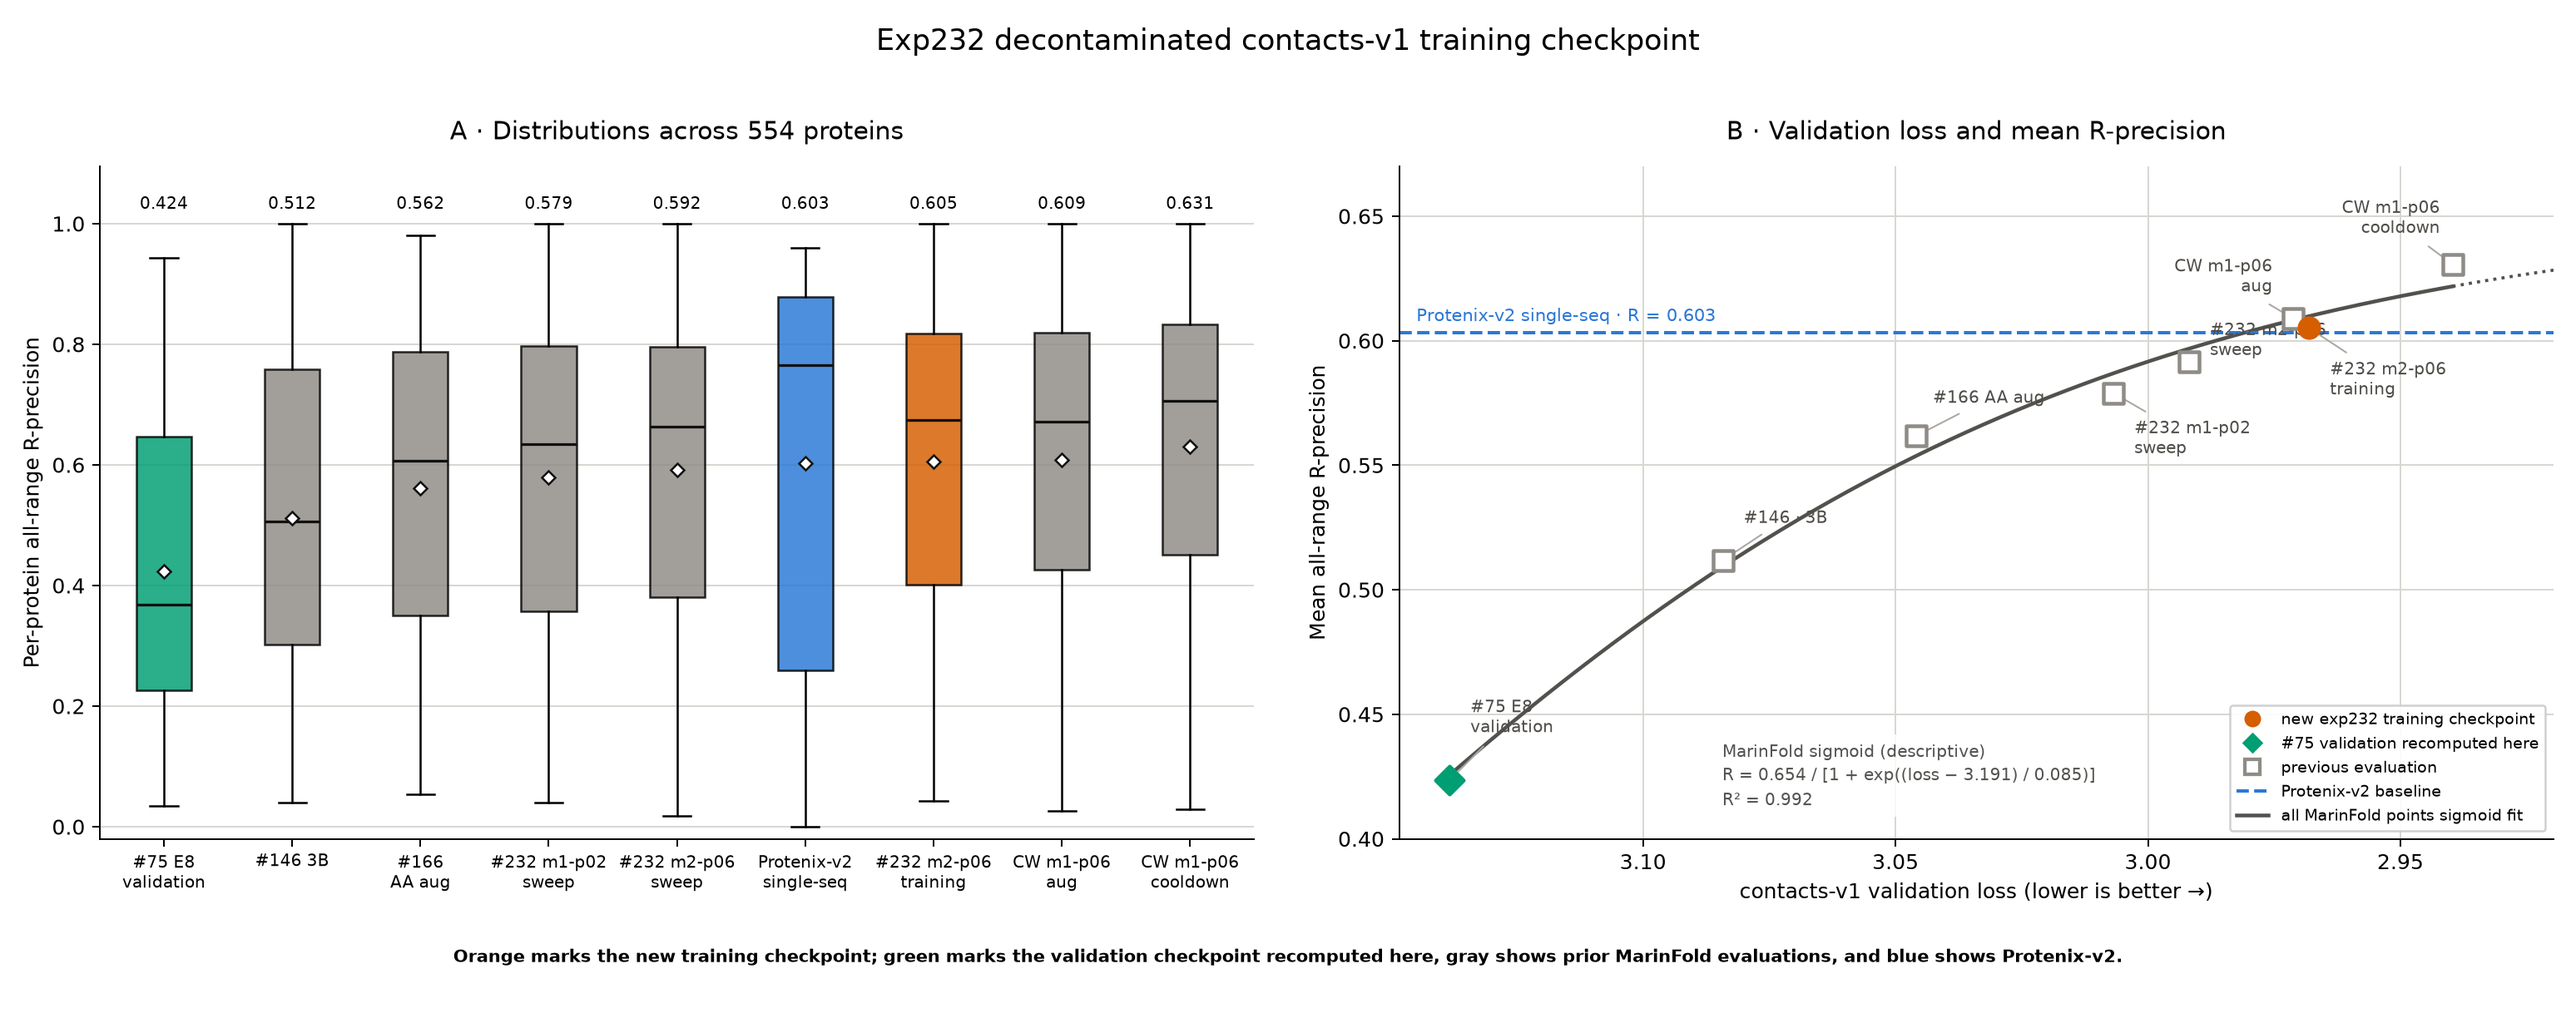
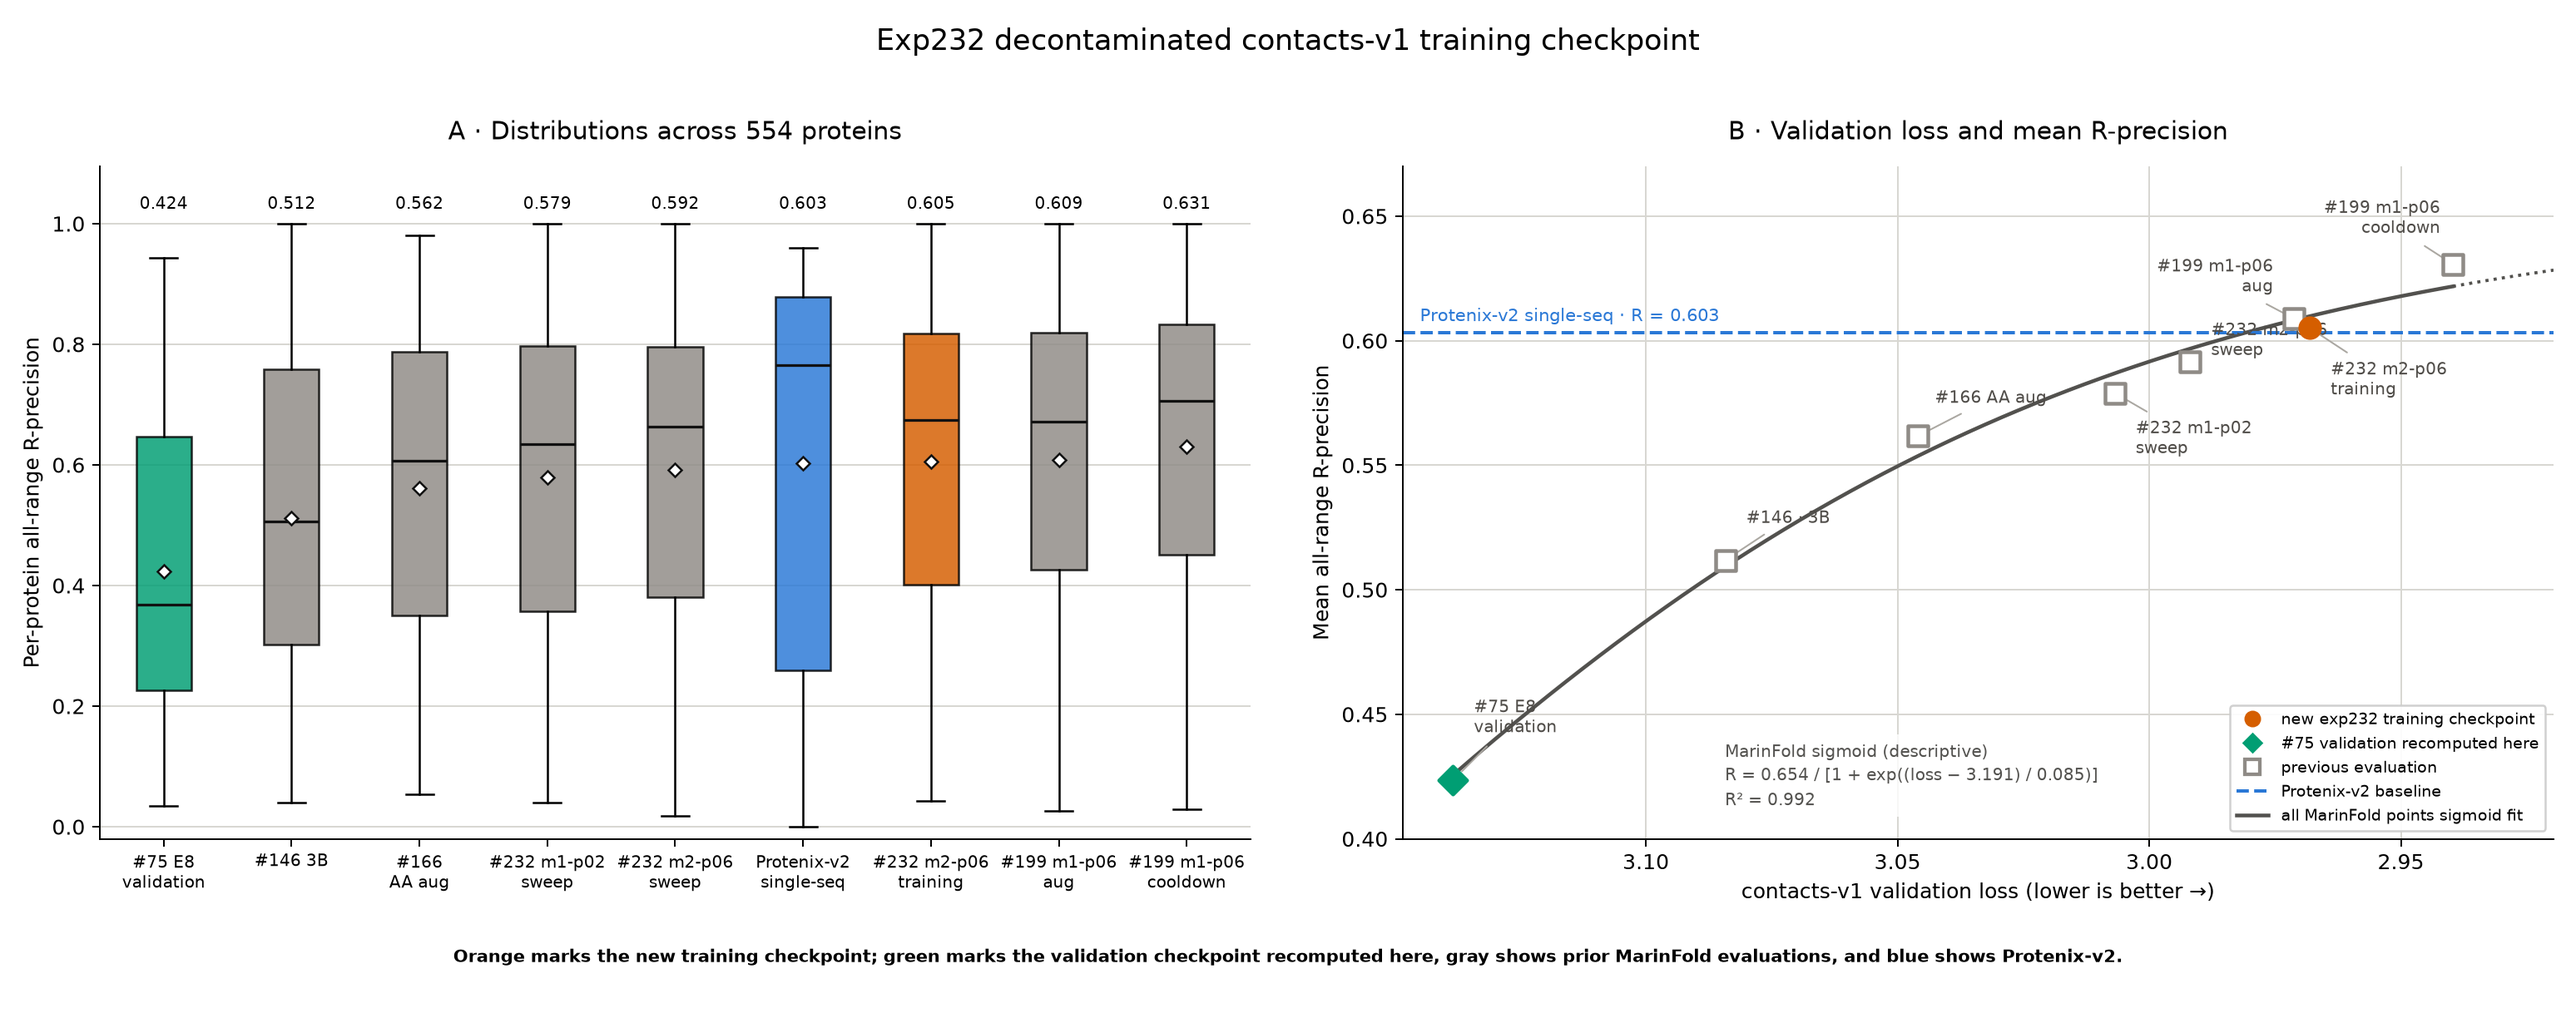
exp232: clarify comparison identities

diff --git a/experiments/exp232_sweep_cv1_decontam/evals/2026-08-24_rollout_v2/build_comparison_data.py b/experiments/exp232_sweep_cv1_decontam/evals/2026-08-24_rollout_v2/build_comparison_data.py
@@ -25,8 +25,8 @@ REFERENCE_KEYS = (
 REFERENCE_ROWS_KEYS = (*REFERENCE_KEYS, "protenix")
 DISPLAY_NAME_OVERRIDES = {
     "exp146": "#146 3B",
-    "cw-p06-aug": "CW m1-p06 aug",
-    "cw-p06-cool": "CW m1-p06 cooldown",
+    "cw-p06-aug": "#199 m1-p06 aug",
+    "cw-p06-cool": "#199 m1-p06 cooldown",
     "exp232-m1-p02-decontam": "#232 m1-p02 sweep",
     "exp232-m2-p06-decontam": "#232 m2-p06 sweep",
 }
@@ -88,18 +88,24 @@ def provenance_path(path: Path) -> str:
         return str(path)
 
 
-def metric_value(aggregate: pd.DataFrame, *, model: str, range_name: str) -> float:
-    """Return one legacy-554 R-precision aggregate."""
+def metric_value(
+    aggregate: pd.DataFrame,
+    *,
+    model: str,
+    range_name: str,
+    subset: str = "legacy_554",
+) -> float:
+    """Return one R-precision aggregate."""
 
     selected = aggregate[
         (aggregate.model == model)
-        & (aggregate.subset == "legacy_554")
+        & (aggregate.subset == subset)
         & (aggregate["range"] == range_name)
         & (aggregate.cut == "R")
     ]
     if len(selected) != 1:
         raise ValueError(
-            f"expected one {model}/{range_name}/R row, found {len(selected)}"
+            f"expected one {model}/{subset}/{range_name}/R row, found {len(selected)}"
         )
     return float(selected.iloc[0].precision)
 
@@ -127,6 +133,8 @@ def build(arguments: argparse.Namespace) -> None:
         ]
     ].rename(columns={loss_column: "loss"})
     reference.insert(3, "evaluation", "previous")
+    reference["r_eval_val"] = np.nan
+    reference["r_eval_denovo"] = np.nan
     reference["display_name"] = reference.apply(
         lambda row: DISPLAY_NAME_OVERRIDES.get(row["key"], row["display_name"]),
         axis=1,
@@ -146,6 +154,18 @@ def build(arguments: argparse.Namespace) -> None:
                 "loss": identity["loss"],
                 "r_all": metric_value(aggregate, model=model, range_name="all"),
                 "r_long": metric_value(aggregate, model=model, range_name="long"),
+                "r_eval_val": metric_value(
+                    aggregate,
+                    model=model,
+                    range_name="all",
+                    subset="eval-val",
+                ),
+                "r_eval_denovo": metric_value(
+                    aggregate,
+                    model=model,
+                    range_name="all",
+                    subset="eval-denovo",
+                ),
                 "fit_group": identity["fit_group"],
                 "coreweave_checkpoint": identity["coreweave_checkpoint"],
                 "metrics_source": str(arguments.subset_aggregate),

diff --git a/experiments/exp232_sweep_cv1_decontam/evals/2026-08-24_rollout_v2/plot_primary_comparison.py b/experiments/exp232_sweep_cv1_decontam/evals/2026-08-24_rollout_v2/plot_primary_comparison.py
@@ -27,8 +27,8 @@ BOX_LABELS = {
     "exp75-reproduced": "#75 E8\nvalidation",
     "exp146": "#146 3B",
     "exp166": "#166\nAA aug",
-    "cw-p06-aug": "CW m1-p06\naug",
-    "cw-p06-cool": "CW m1-p06\ncooldown",
+    "cw-p06-aug": "#199 m1-p06\naug",
+    "cw-p06-cool": "#199 m1-p06\ncooldown",
     "protenix": "Protenix-v2\nsingle-seq",
     "exp232-m2-p06-decontam": "#232 m2-p06\nsweep",
     "exp232-m1-p02-decontam": "#232 m1-p02\nsweep",
@@ -45,8 +45,8 @@ ANNOTATIONS = {
     "exp75-reproduced": ((10, 30), "left", "#75 E8\nvalidation"),
     "exp146": ((10, 20), "left", "#146 · 3B"),
     "exp166": ((8, 18), "left", "#166 AA aug"),
-    "cw-p06-aug": ((-10, 20), "right", "CW m1-p06\naug"),
-    "cw-p06-cool": ((-6, 22), "right", "CW m1-p06\ncooldown"),
+    "cw-p06-aug": ((-10, 20), "right", "#199 m1-p06\naug"),
+    "cw-p06-cool": ((-6, 22), "right", "#199 m1-p06\ncooldown"),
     "exp232-m2-p06-decontam": ((10, 10), "left", "#232 m2-p06\nsweep"),
     "exp232-m1-p02-decontam": ((10, -22), "left", "#232 m1-p02\nsweep"),
     "exp232-m2-p06-training": ((10, -25), "left", "#232 m2-p06\ntraining"),

diff --git a/experiments/exp232_sweep_cv1_decontam/evals/2026-08-24_rollout_v2/README.md b/experiments/exp232_sweep_cv1_decontam/evals/2026-08-24_rollout_v2/README.md
@@ -59,4 +59,4 @@ The full `eval-val`, `eval-denovo`, viral, and nonviral aggregates are in `data/
 
 ## Validation and comparison
 
-The #75 E8 checkpoint passed all four published legacy gates at tolerance 0.005; the largest absolute difference was 0.002553 (long-range R-precision). `build_comparison_data.py` reuses the prior #146, #166, exp232 sweep, CW m1-p06 augmentation/cooldown, and Protenix-v2 results and adds only the recomputed #75 slice and the new training slice. `plot_primary_comparison.py` renders `plots/final_checkpoint_rprecision.png`, sorts boxes by mean all-range R-precision, and fits the descriptive sigmoid to every MarinFold point with a finite contacts-v1 validation loss.
+The #75 E8 checkpoint passed all four published legacy gates at tolerance 0.005; the largest absolute difference was 0.002553 (long-range R-precision). `build_comparison_data.py` reuses the prior #146, #166, exp232 sweep, #199 m1-p06 augmentation/cooldown, and Protenix-v2 results and adds only the recomputed #75 slice and the new training slice. `plot_primary_comparison.py` renders `plots/final_checkpoint_rprecision.png`, sorts boxes by mean all-range R-precision, and fits the descriptive sigmoid to every MarinFold point with a finite contacts-v1 validation loss.
